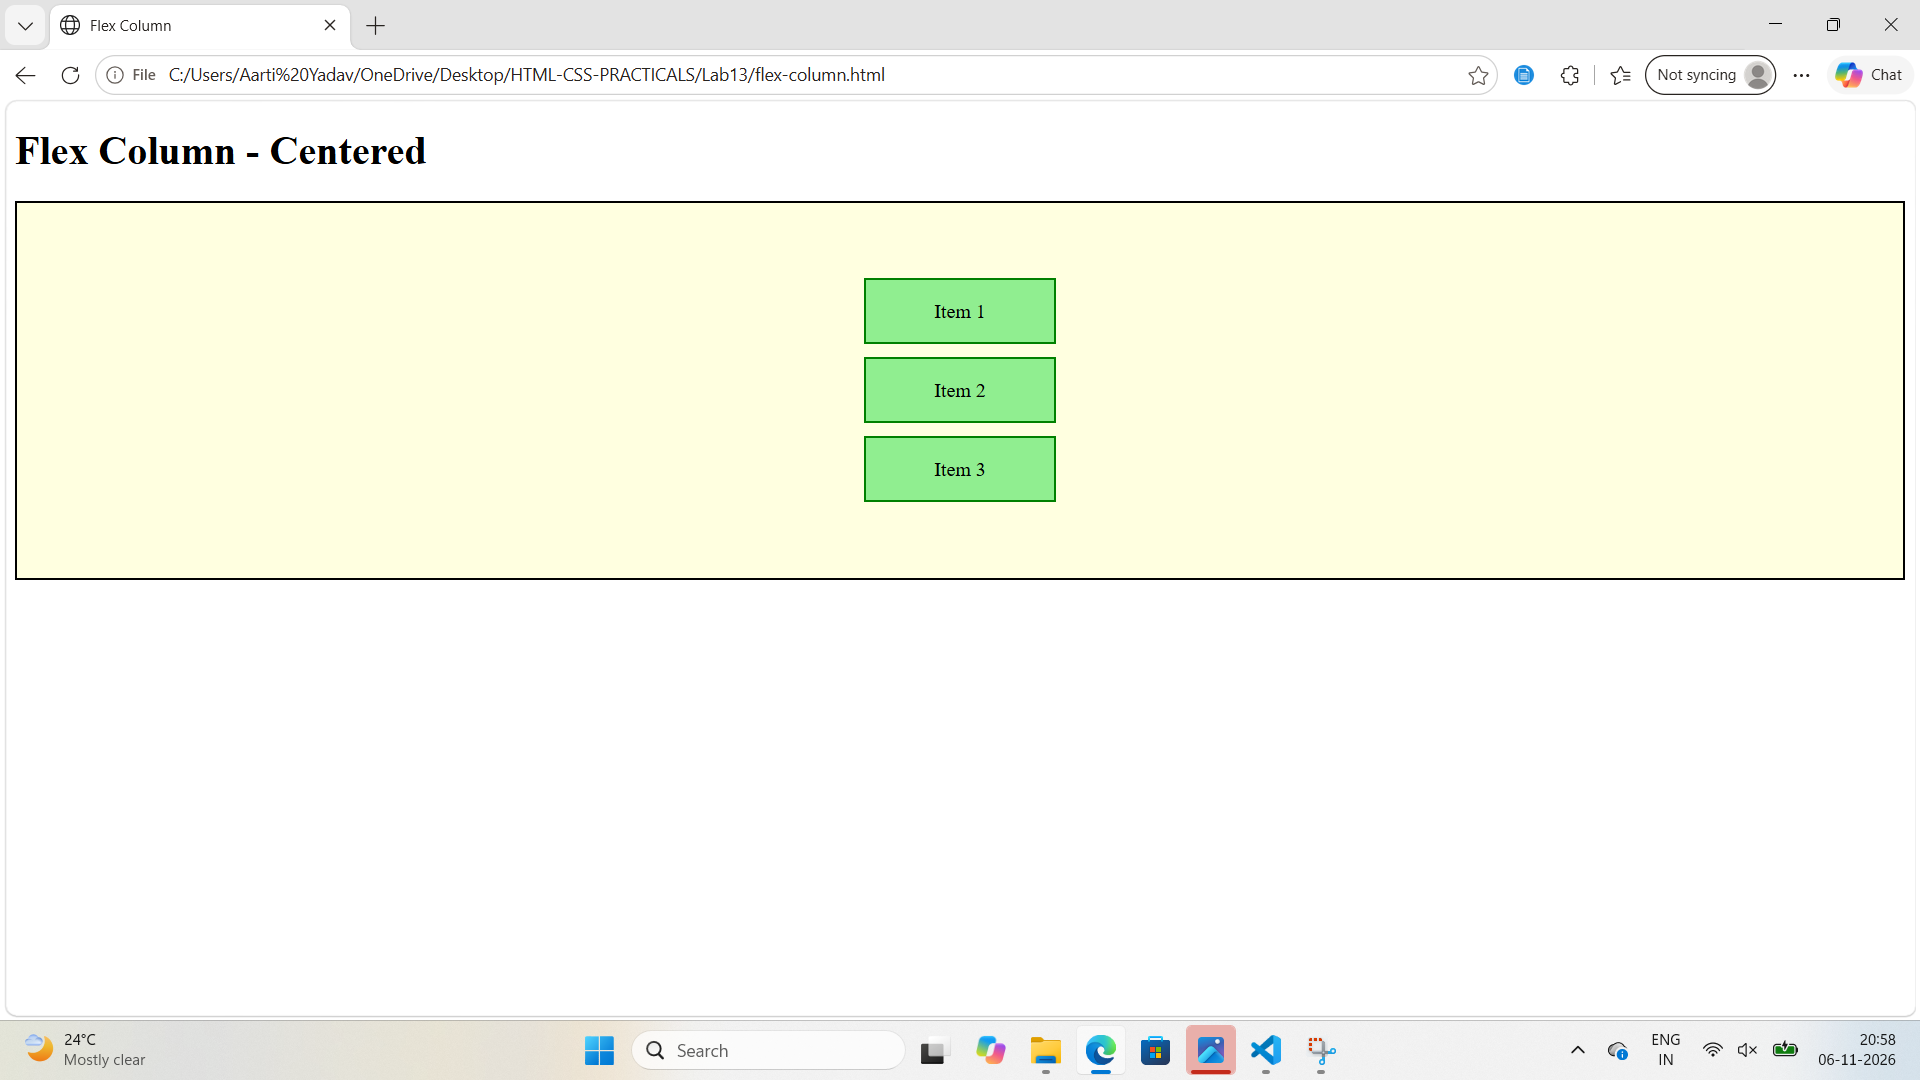
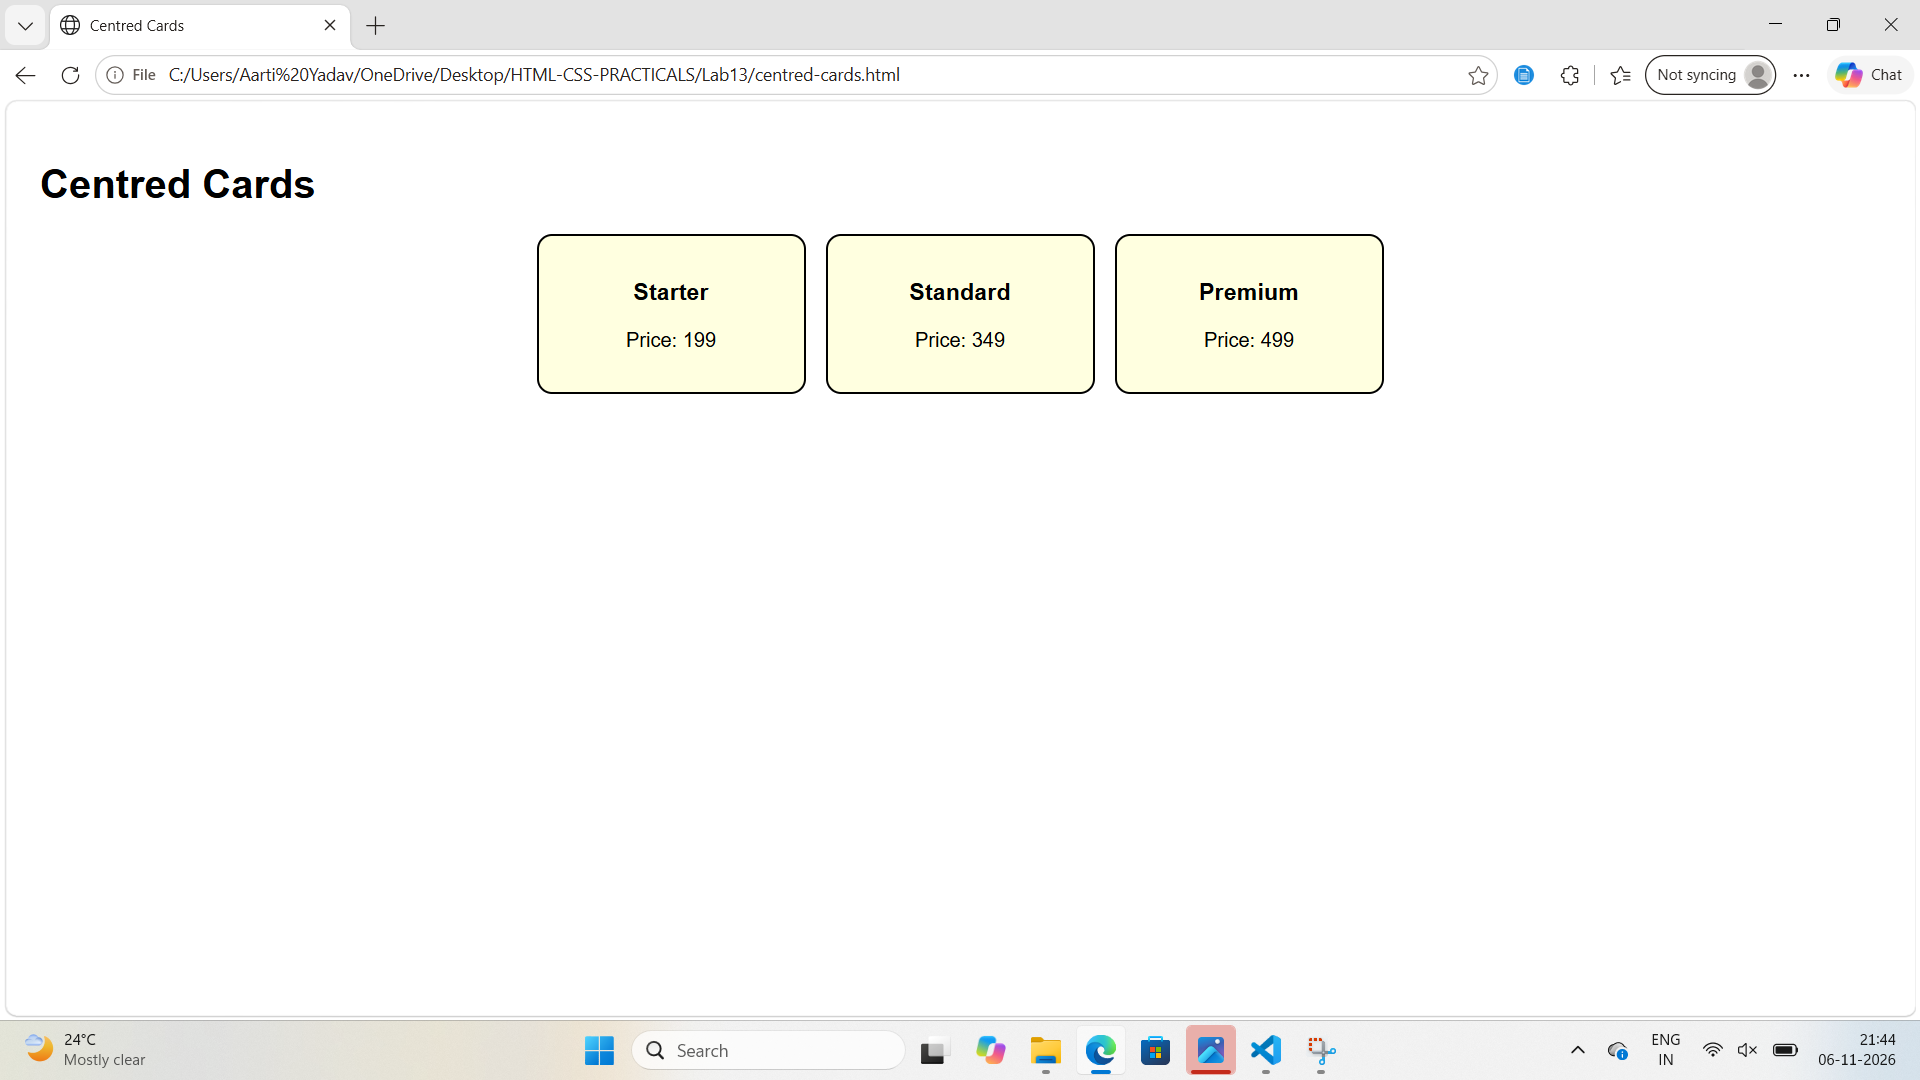
Lab13 complete - Flexbox

diff --git a/Lab13/wrapping-cards.html b/Lab13/wrapping-cards.html
@@ -1,0 +1,47 @@
+<!-- Name: Aarti Yadav, Roll No: 2410303005, Assignment: 13 -->
+<!DOCTYPE html>
+<html>
+<head>
+    <title>Stationery Shop</title>
+    <style>
+        body {
+            font-family: Arial, sans-serif;
+            padding: 20px;
+        }
+        .row {
+            display: flex;
+            flex-wrap: wrap;
+            gap: 16px;
+        }
+        .card {
+            background-color: lightgreen;
+            border: 2px solid black;
+            border-radius: 12px;
+            padding: 16px;
+            width: 180px;
+            text-align: center;
+        }
+    </style>
+</head>
+<body>
+    <h1>Stationery Shop</h1>
+    <div class="row">
+        <div class="card">
+            <h3>Notebook</h3>
+            <p>Price: 60</p>
+        </div>
+        <div class="card">
+            <h3>Pen</h3>
+            <p>Price: 15</p>
+        </div>
+        <div class="card">
+            <h3>Bag</h3>
+            <p>Price: 350</p>
+        </div>
+        <div class="card">
+            <h3>Book</h3>
+            <p>Price: 120</p>
+        </div>
+    </div>
+</body>
+</html>

diff --git a/Lab13/centred-cards.html b/Lab13/centred-cards.html
@@ -1,0 +1,44 @@
+<!-- Name: Aarti Yadav, Roll No: 2410303005, Assignment: 13 -->
+<!DOCTYPE html>
+<html>
+<head>
+    <title>Centred Cards</title>
+    <style>
+        body {
+            font-family: Arial, sans-serif;
+            padding: 20px;
+        }
+        .row {
+            display: flex;
+            justify-content: center;
+            align-items: center;
+            gap: 16px;
+        }
+        .card {
+            background-color: lightyellow;
+            border: 2px solid black;
+            border-radius: 12px;
+            padding: 16px;
+            width: 180px;
+            text-align: center;
+        }
+    </style>
+</head>
+<body>
+    <h1>Centred Cards</h1>
+    <div class="row">
+        <div class="card">
+            <h3>Starter</h3>
+            <p>Price: 199</p>
+        </div>
+        <div class="card">
+            <h3>Standard</h3>
+            <p>Price: 349</p>
+        </div>
+        <div class="card">
+            <h3>Premium</h3>
+            <p>Price: 499</p>
+        </div>
+    </div>
+</body>
+</html>

diff --git a/Lab13/nav-flex.html b/Lab13/nav-flex.html
@@ -1,0 +1,32 @@
+<!-- Name: Aarti Yadav, Roll No: 2410303005, Assignment: 13 -->
+<!DOCTYPE html>
+<html>
+<head>
+    <title>Navigation Bar</title>
+    <style>
+        body {
+            font-family: Arial, sans-serif;
+            padding: 20px;
+        }
+        nav {
+            display: flex;
+            gap: 20px;
+            background-color: #333;
+            padding: 15px;
+        }
+        nav a {
+            color: white;
+            text-decoration: none;
+        }
+    </style>
+</head>
+<body>
+    <h1>Navigation Bar</h1>
+    <nav>
+        <a href="#">Home</a>
+        <a href="#">About</a>
+        <a href="#">Events</a>
+        <a href="#">Contact</a>
+    </nav>
+</body>
+</html>

diff --git a/Lab13/README.md b/Lab13/README.md
@@ -1,16 +1,16 @@
-# Lab 13 - Flexbox Layout
+# Lab 13 - Flexbox
 
-## Task 1 - Flex Row
-- File: flex-row.html
-- Container with display flex, 3 boxes in a row.
+## Task 1 - Navigation Bar
+- File: nav-flex.html
+- Horizontal navigation bar using display flex, dark background and white link text.
 - Screenshot: images/task1.png
 
-## Task 2 - Flex Column
-- File: flex-column.html
-- Container with flex-direction column, centered with justify-content and align-items.
+## Task 2 - Centred Cards
+- File: centred-cards.html
+- Row with three cards centred using justify-content and align-items.
 - Screenshot: images/task2.png
 
-## Task 3 - Flex Cards
-- File: flex-cards.html
-- 3 cards in flex container with justify-content space-between and gap.
+## Task 3 - Wrapping Cards
+- File: wrapping-cards.html
+- Stationery Shop with four cards in a flex-wrap row.
 - Screenshot: images/task3.png
